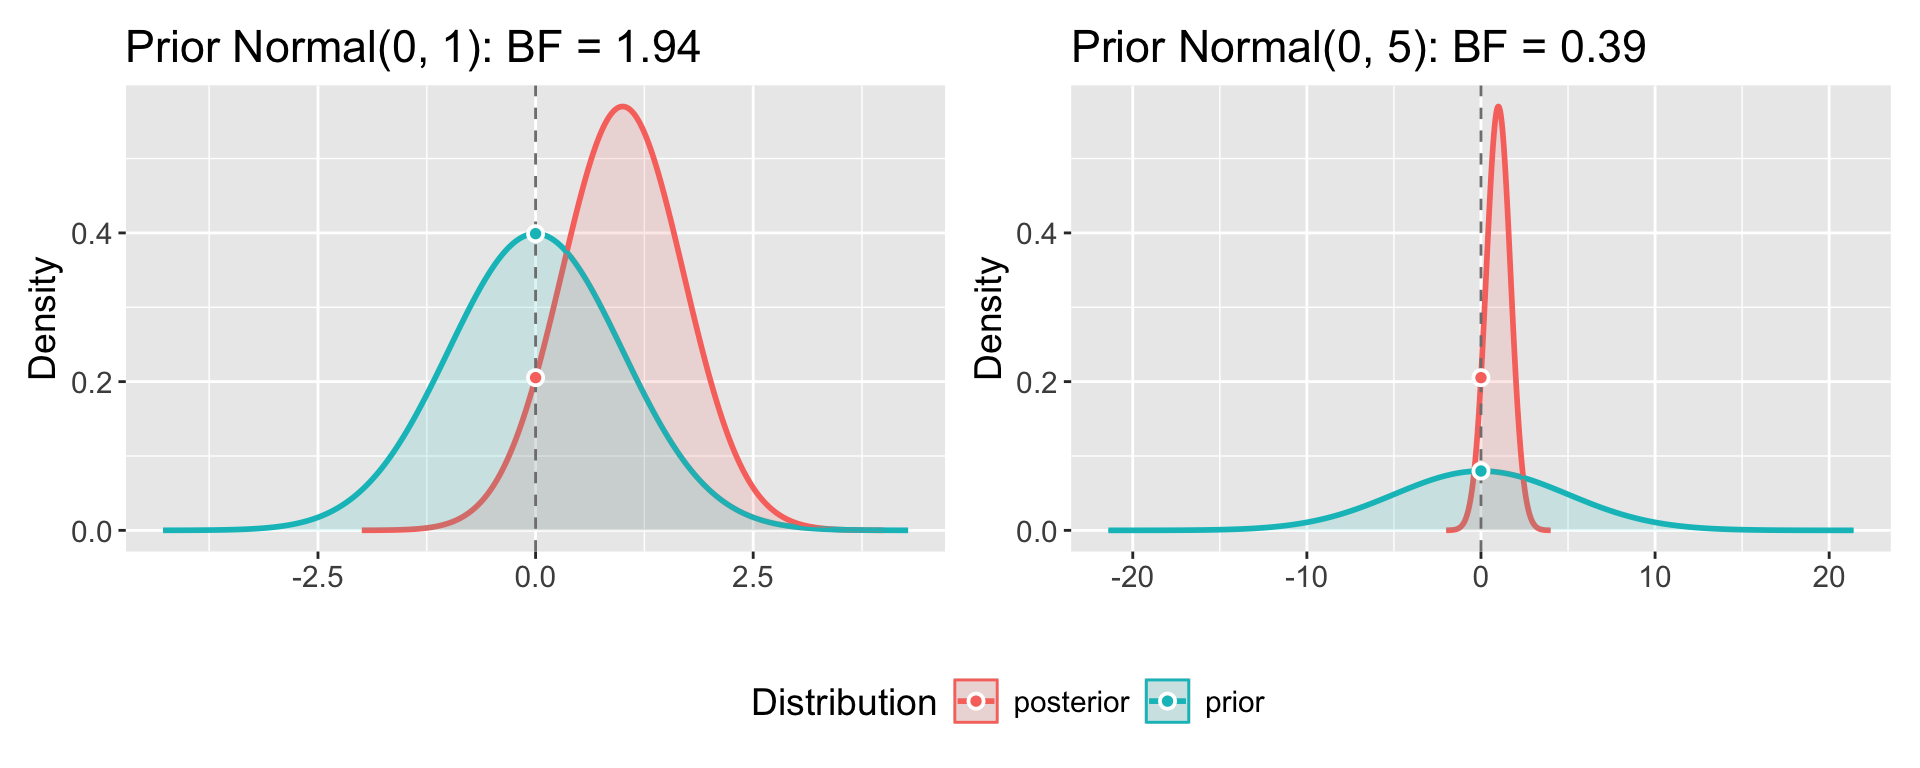
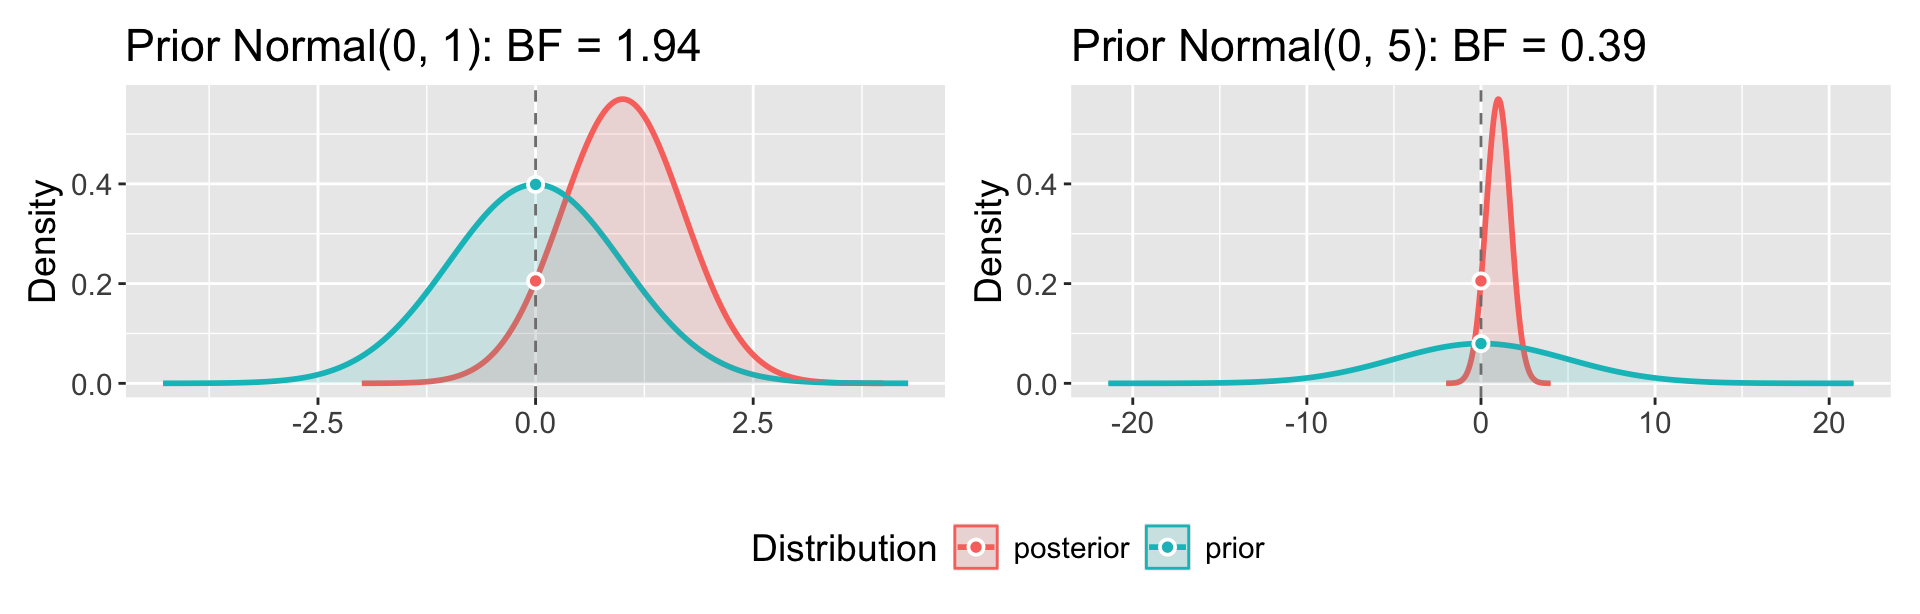
Lecture 6: side-by-side BF plot fits (shorter figure, trimmed caption)

diff --git a/_site/info-6.html b/_site/info-6.html
@@ -1592,7 +1592,7 @@ BF
 </div>
 </div>
 </section>
-<section id="same-data-different-bf" class="slide level2 nostretch">
+<section id="same-data-different-bf" class="slide level2 nostretch smaller">
 <h2>Same data, different BF</h2>
 <div class="cell">
 <details class="code-fold">
@@ -1611,7 +1611,7 @@ BF
 </div>
 </div>
 </div>
-<p>Anecdotal evidence for H1 becomes anecdotal evidence for H0. We held the posterior fixed to isolate the prior’s role (in a real analysis it would shift a little too); only the prior changed.</p>
+<p>Anecdotal evidence for H1 becomes anecdotal evidence for H0. Only the prior changed: we held the posterior fixed to isolate its role (in a real analysis it would shift a little too).</p>
 </section>
 <section id="a-best-guess-prior" class="slide level2">
 <h2>A best-guess prior</h2>
